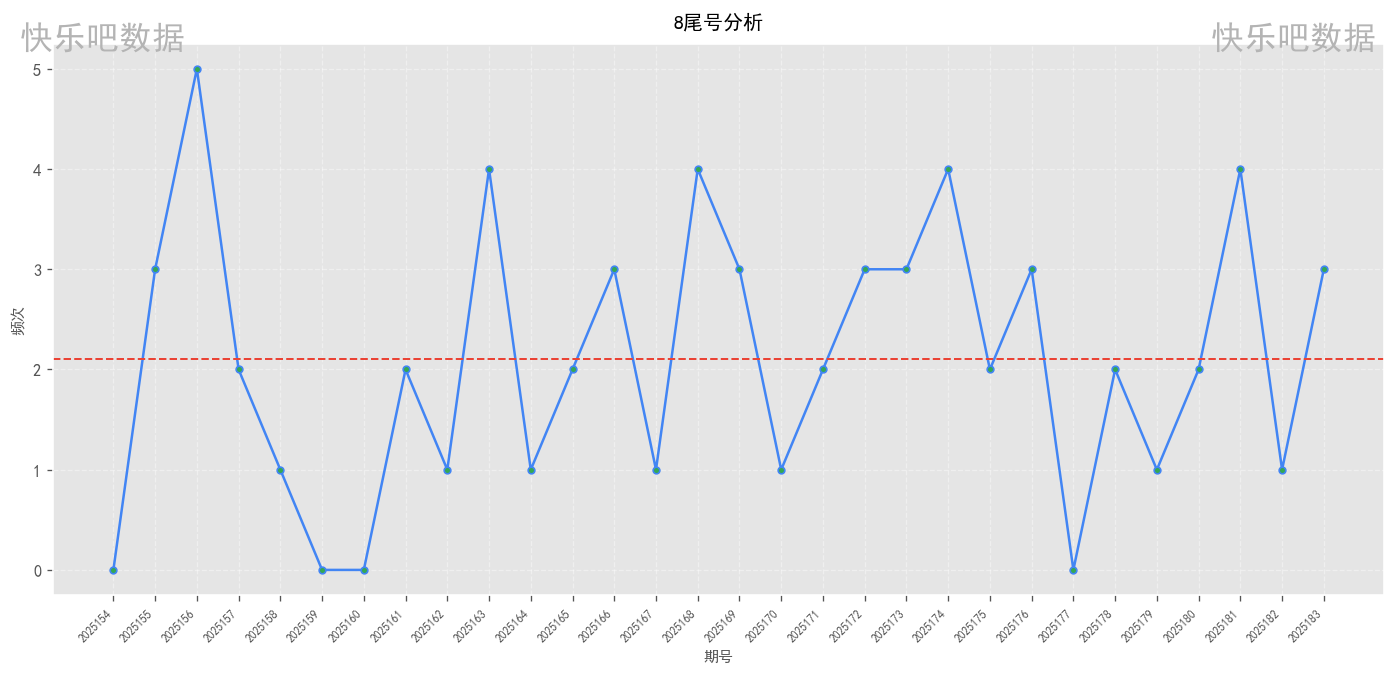
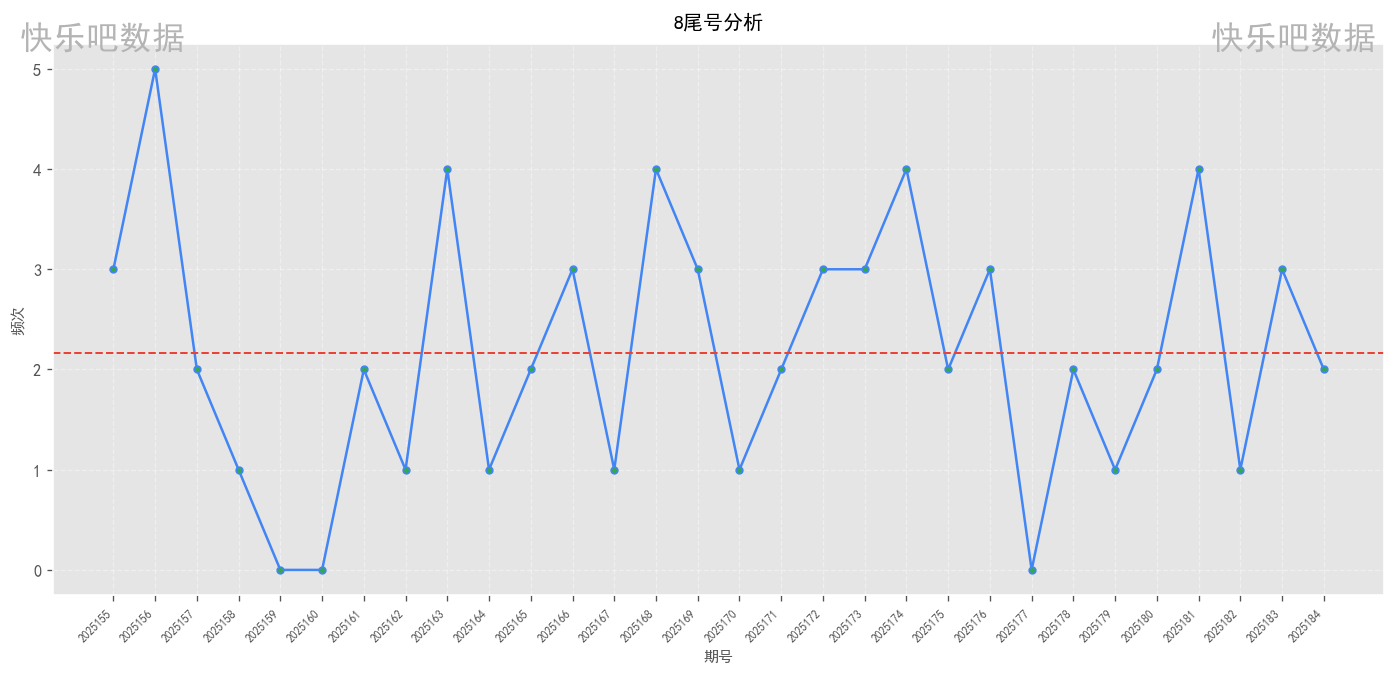
自动提交报告 20250713_2333

diff --git a/快乐8尾号分析项目/数据报告/20250713/report.html b/快乐8尾号分析项目/数据报告/20250713/report.html
@@ -440,7 +440,7 @@
                     <div class="label">尾号区间</div>
                 </div>
                 <div class="overview-card">
-                    <div class="value">2025183</div>
+                    <div class="value">2025184</div>
                     <div class="label">最新期号</div>
                 </div>
                 <div class="overview-card">
@@ -464,11 +464,11 @@
             <div class="stats-summary">
                 <div class="stat-item">
                     <span class="stat-label">历史平均</span>
-                    <span class="stat-value">2.17</span>
+                    <span class="stat-value">2.20</span>
                 </div>
                 <div class="stat-item">
                     <span class="stat-label">近期平均</span>
-                    <span class="stat-value">2.40</span>
+                    <span class="stat-value">2.60</span>
                 </div>
                 <div class="stat-item">
                     <span class="stat-label">最高频次</span>
@@ -486,11 +486,11 @@
             <div class="stats-summary">
                 <div class="stat-item">
                     <span class="stat-label">历史平均</span>
-                    <span class="stat-value">2.07</span>
+                    <span class="stat-value">2.03</span>
                 </div>
                 <div class="stat-item">
                     <span class="stat-label">近期平均</span>
-                    <span class="stat-value">2.00</span>
+                    <span class="stat-value">1.60</span>
                 </div>
                 <div class="stat-item">
                     <span class="stat-label">最高频次</span>
@@ -503,28 +503,6 @@
             <h3 class="card-title">2尾号分析</h3>
             <div class="chart-container">
                 <img src="https://raw.githubusercontent.com/john2297596635/gzh/main/数据报告/20250713/images/2尾号分析.png" alt="2尾号分析图" class="chart-img">
-            </div>
-
-            <div class="stats-summary">
-                <div class="stat-item">
-                    <span class="stat-label">历史平均</span>
-                    <span class="stat-value">1.93</span>
-                </div>
-                <div class="stat-item">
-                    <span class="stat-label">近期平均</span>
-                    <span class="stat-value">1.80</span>
-                </div>
-                <div class="stat-item">
-                    <span class="stat-label">最高频次</span>
-                    <span class="stat-value">5</span>
-                </div>
-            </div>
-        </div>
-        
-        <div class="chart-card">
-            <h3 class="card-title">3尾号分析</h3>
-            <div class="chart-container">
-                <img src="https://raw.githubusercontent.com/john2297596635/gzh/main/数据报告/20250713/images/3尾号分析.png" alt="3尾号分析图" class="chart-img">
             </div>
 
             <div class="stats-summary">
@@ -544,6 +522,28 @@
         </div>
         
         <div class="chart-card">
+            <h3 class="card-title">3尾号分析</h3>
+            <div class="chart-container">
+                <img src="https://raw.githubusercontent.com/john2297596635/gzh/main/数据报告/20250713/images/3尾号分析.png" alt="3尾号分析图" class="chart-img">
+            </div>
+
+            <div class="stats-summary">
+                <div class="stat-item">
+                    <span class="stat-label">历史平均</span>
+                    <span class="stat-value">2.00</span>
+                </div>
+                <div class="stat-item">
+                    <span class="stat-label">近期平均</span>
+                    <span class="stat-value">2.40</span>
+                </div>
+                <div class="stat-item">
+                    <span class="stat-label">最高频次</span>
+                    <span class="stat-value">5</span>
+                </div>
+            </div>
+        </div>
+        
+        <div class="chart-card">
             <h3 class="card-title">4尾号分析</h3>
             <div class="chart-container">
                 <img src="https://raw.githubusercontent.com/john2297596635/gzh/main/数据报告/20250713/images/4尾号分析.png" alt="4尾号分析图" class="chart-img">
@@ -552,11 +552,11 @@
             <div class="stats-summary">
                 <div class="stat-item">
                     <span class="stat-label">历史平均</span>
-                    <span class="stat-value">1.60</span>
+                    <span class="stat-value">1.53</span>
                 </div>
                 <div class="stat-item">
                     <span class="stat-label">近期平均</span>
-                    <span class="stat-value">1.60</span>
+                    <span class="stat-value">1.40</span>
                 </div>
                 <div class="stat-item">
                     <span class="stat-label">最高频次</span>
@@ -574,15 +574,15 @@
             <div class="stats-summary">
                 <div class="stat-item">
                     <span class="stat-label">历史平均</span>
-                    <span class="stat-value">2.00</span>
+                    <span class="stat-value">2.10</span>
                 </div>
                 <div class="stat-item">
                     <span class="stat-label">近期平均</span>
-                    <span class="stat-value">2.60</span>
+                    <span class="stat-value">2.80</span>
                 </div>
                 <div class="stat-item">
                     <span class="stat-label">最高频次</span>
-                    <span class="stat-value">4</span>
+                    <span class="stat-value">5</span>
                 </div>
             </div>
         </div>
@@ -596,15 +596,15 @@
             <div class="stats-summary">
                 <div class="stat-item">
                     <span class="stat-label">历史平均</span>
-                    <span class="stat-value">2.33</span>
+                    <span class="stat-value">2.17</span>
                 </div>
                 <div class="stat-item">
                     <span class="stat-label">近期平均</span>
-                    <span class="stat-value">2.20</span>
+                    <span class="stat-value">1.60</span>
                 </div>
                 <div class="stat-item">
                     <span class="stat-label">最高频次</span>
-                    <span class="stat-value">6</span>
+                    <span class="stat-value">5</span>
                 </div>
             </div>
         </div>
@@ -622,7 +622,7 @@
                 </div>
                 <div class="stat-item">
                     <span class="stat-label">近期平均</span>
-                    <span class="stat-value">1.40</span>
+                    <span class="stat-value">1.60</span>
                 </div>
                 <div class="stat-item">
                     <span class="stat-label">最高频次</span>
@@ -640,11 +640,11 @@
             <div class="stats-summary">
                 <div class="stat-item">
                     <span class="stat-label">历史平均</span>
-                    <span class="stat-value">2.10</span>
+                    <span class="stat-value">2.17</span>
                 </div>
                 <div class="stat-item">
                     <span class="stat-label">近期平均</span>
-                    <span class="stat-value">2.20</span>
+                    <span class="stat-value">2.40</span>
                 </div>
                 <div class="stat-item">
                     <span class="stat-label">最高频次</span>
@@ -666,7 +666,7 @@
                 </div>
                 <div class="stat-item">
                     <span class="stat-label">近期平均</span>
-                    <span class="stat-value">1.80</span>
+                    <span class="stat-value">1.60</span>
                 </div>
                 <div class="stat-item">
                     <span class="stat-label">最高频次</span>
@@ -690,7 +690,7 @@
         <div class="disclaimer">
             <div class="disclaimer-title"><i class="fas fa-exclamation-circle"></i> 法律声明</div>
             <p>本分析报告基于中国福利彩票官网公开数据制作，仅供历史数据分析与参考，严禁用于赌博或任何违法违规用途。</p>
-            <p>根据中国法律，禁止向未成年人传播彩票相关信息。数据统计周期: 2025154期-2025183期 | 生成时间: 2025-07-13 00:41</p>
+            <p>根据中国法律，禁止向未成年人传播彩票相关信息。数据统计周期: 2025155期-2025184期 | 生成时间: 2025-07-13 23:33</p>
         </div>
 
         <!-- 操作按钮 -->
